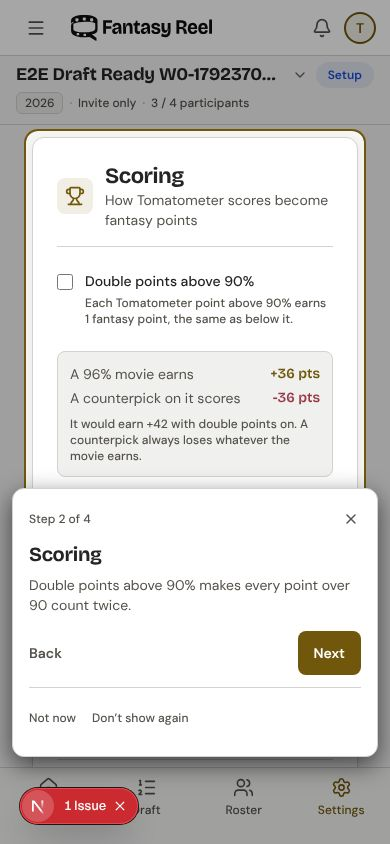
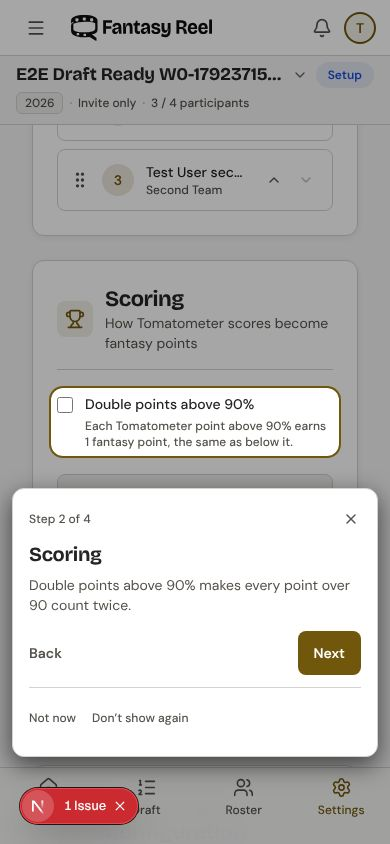
Point the settings tour at the fields, not the whole sections
The section cards are taller than the space beside the tour card, so the
card covered the text the step talked about. Anchoring the double-points
toggle and the two slot grids lets the card sit clear of them.

Claude-Session: https://claude.ai/code/session_01WyMozm9LfignXEoXtUvV4K

diff --git a/apps/frontend/app/(authenticated)/league/[id]/settings/components/CounterpickConfigSection.tsx b/apps/frontend/app/(authenticated)/league/[id]/settings/components/CounterpickConfigSection.tsx
@@ -88,7 +88,7 @@ export default function CounterpickConfigSection({
   }
 
   return (
-    <section className="card p-6" data-tour="settings-counterpicks">
+    <section className="card p-6">
       <SectionHeader
         icon={Target}
         title="Counterpick Configuration"
@@ -104,7 +104,7 @@ export default function CounterpickConfigSection({
         <form onSubmit={handleSubmit}>
           <div className="space-y-6">
             {/* Counterpick Slots */}
-            <div className="grid grid-cols-1 sm:grid-cols-2 gap-4">
+            <div className="grid grid-cols-1 sm:grid-cols-2 gap-4" data-tour="settings-counterpicks">
               <NumberField
                 id="draft_counterpick_slots"
                 label="Draft counterpick slots"

diff --git a/apps/frontend/app/(authenticated)/league/[id]/settings/components/ScoringConfigSection.tsx b/apps/frontend/app/(authenticated)/league/[id]/settings/components/ScoringConfigSection.tsx
@@ -68,7 +68,7 @@ export default function ScoringConfigSection({ league, onUpdate }: Props): React
   }
 
   return (
-    <section className="card p-6" data-tour="settings-scoring">
+    <section className="card p-6">
       <SectionHeader
         icon={Trophy}
         title="Scoring"
@@ -87,7 +87,7 @@ export default function ScoringConfigSection({ league, onUpdate }: Props): React
           <fieldset disabled={isSubmitting}>
             <div className="space-y-6">
               {/* Double points toggle */}
-              <div className="flex items-start gap-3">
+              <div className="flex items-start gap-3" data-tour="settings-scoring">
                 <div className="pt-0.5">
                   <input
                     type="checkbox"

diff --git a/apps/frontend/app/(authenticated)/league/[id]/settings/components/BiddingConfigSection.tsx b/apps/frontend/app/(authenticated)/league/[id]/settings/components/BiddingConfigSection.tsx
@@ -121,7 +121,7 @@ export default function BiddingConfigSection({
   }
 
   return (
-    <section className="card p-6" data-tour="settings-roster">
+    <section className="card p-6">
       <SectionHeader
         icon={Package}
         title="Bidding Configuration"
@@ -137,7 +137,7 @@ export default function BiddingConfigSection({
         <form onSubmit={handleSubmit}>
           <div className="space-y-6">
             {/* Slot Configuration */}
-            <div className="grid grid-cols-1 sm:grid-cols-2 gap-4">
+            <div className="grid grid-cols-1 sm:grid-cols-2 gap-4" data-tour="settings-roster">
               <NumberField
                 id="total_slots"
                 label="Total roster slots"
